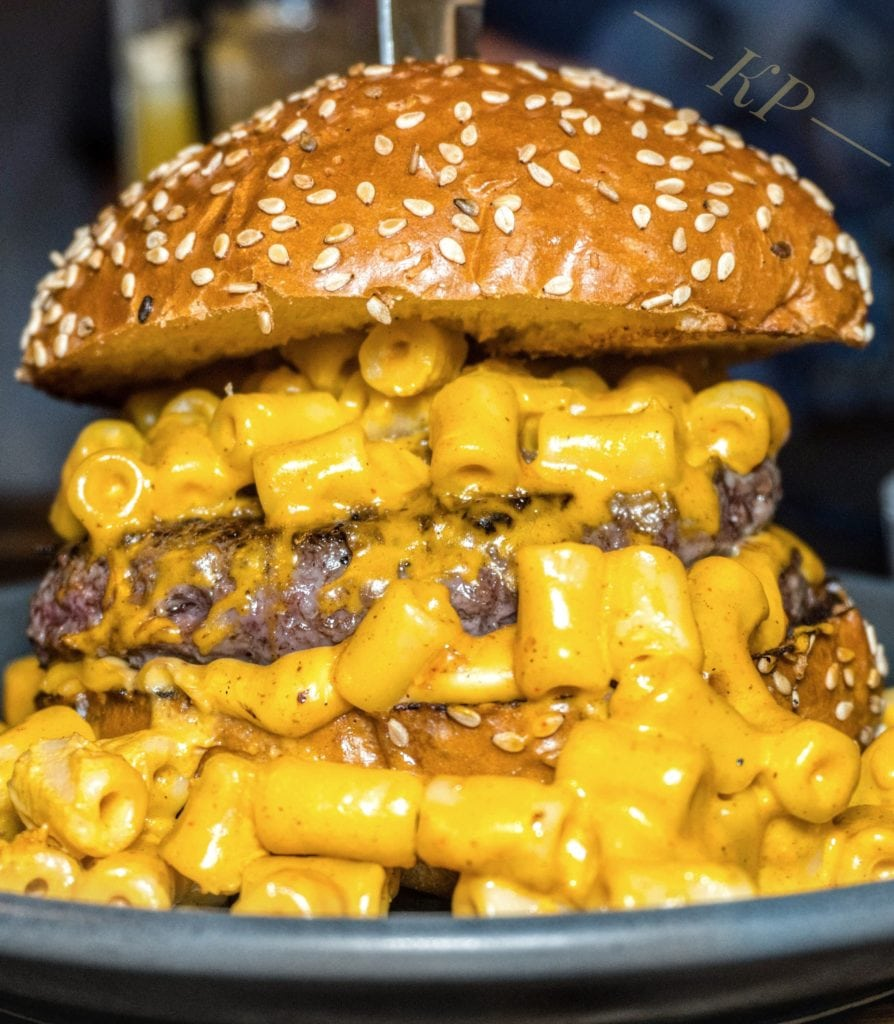
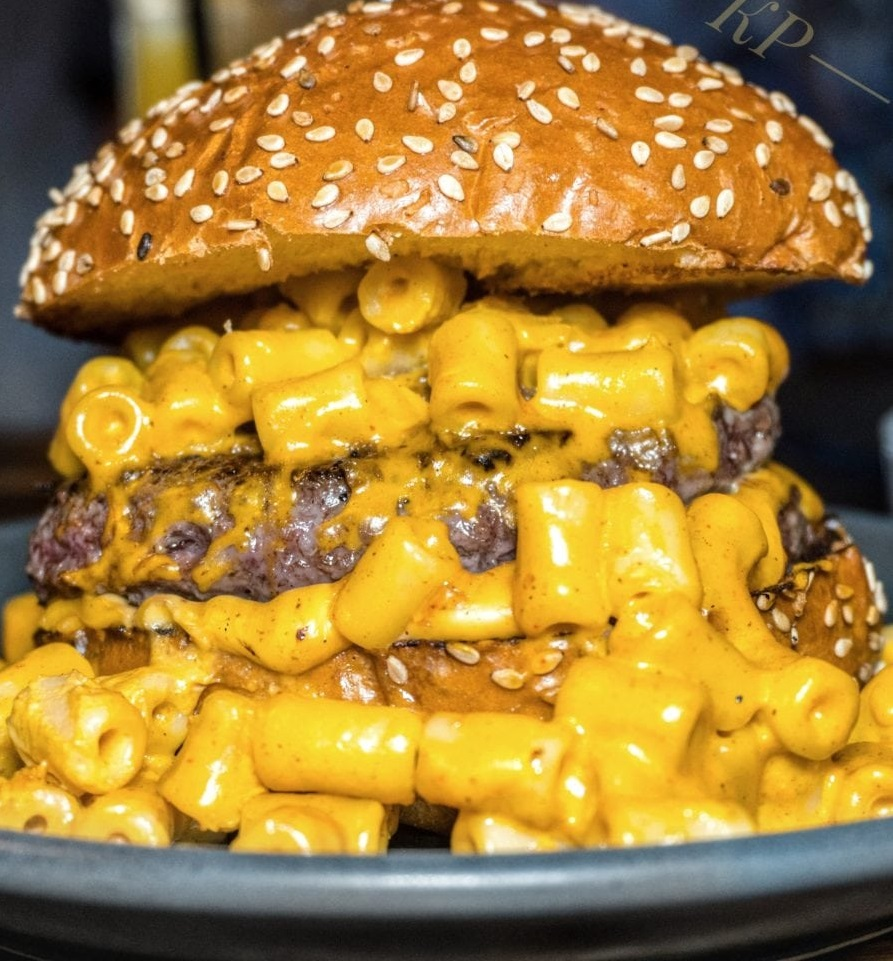
adding image overlay

diff --git a/View-All-Restaurants.html b/View-All-Restaurants.html
@@ -52,14 +52,22 @@ href="https://stackpath.bootstrapcdn.com/bootstrap/4.1.3/css/bootstrap.min
       <!-- columns -->
       <div class="row">
         <div class="col-xl">
-          <!-- add an image here -->
-          <img src= dirty-bones-burger.jpeg width="300px" id="burger">
-        </div>
+          <img src= dirty-bones-burger.jpeg width="270px" class=image id="burger">
+          <div class = "overlay">
+          <div class="text">Dirty Burger</div>
+            </div>
+      </div>
         <div class="col-xl">
-            <img src= kintan-bbq.jpg width="400px" id="bbq">
+            <img src= kintan-bbq.jpg width="400px" class=image id="bbq">
+            <div class = "overlay">
+            <div class="text">Kintan</div>
         </div>
+        <div>
         <div class="col-xl">
-            <img src= ethos-vegan.jpg width="300px" id="ethos">
+            <img src= ethos-vegan.jpg width="300px" class=image id="ethos">
+            <div class = "overlay">
+            <div class="text">Ethos</div>
+          </div>
         </div>
       </div>
 
@@ -74,6 +82,6 @@ href="https://stackpath.bootstrapcdn.com/bootstrap/4.1.3/css/bootstrap.min
     <script src="https://getbootstrap.com/docs/4.1/assets/js/vendor/popper.min.js"></script>
     <script src="https://getbootstrap.com/docs/4.1/dist/js/bootstrap.min.js"></script>
     <script src="js/restaurant-javascript.js"></script>
-    
+
   </body>
 </html>

diff --git a/restaurant.css b/restaurant.css
@@ -16,3 +16,38 @@ h1 {font-family: ‘Helvetica’, monospace;
 #ethos {
   border: solid black;
 }
+#burger:hover {
+  background-color: Purple;
+}
+.container {
+  position: relative;
+  width: 100%;
+}
+.overlay {
+    position:absolute;
+    top: 0;
+    bottom: 0;
+    left: 0;
+    right: ;
+    height: 100%;
+    width: 50%;
+    opacity: 0;
+    transition: .5s ease;
+    background-color:rgb(218,112,214);
+  }
+
+.container:hover .overlay {
+    opacity: 0.3;
+  }
+
+  .text {
+    color: white;
+    font-size: 20px;
+    position: absolute;
+    top: 50%;
+    left: 50%;
+    -webkit-transform: translate(-50%, -50%);
+    -ms-transform: translate(-50%, -50%);
+    transform: translate(-50%, -50%);
+    text-align: center;
+  }
